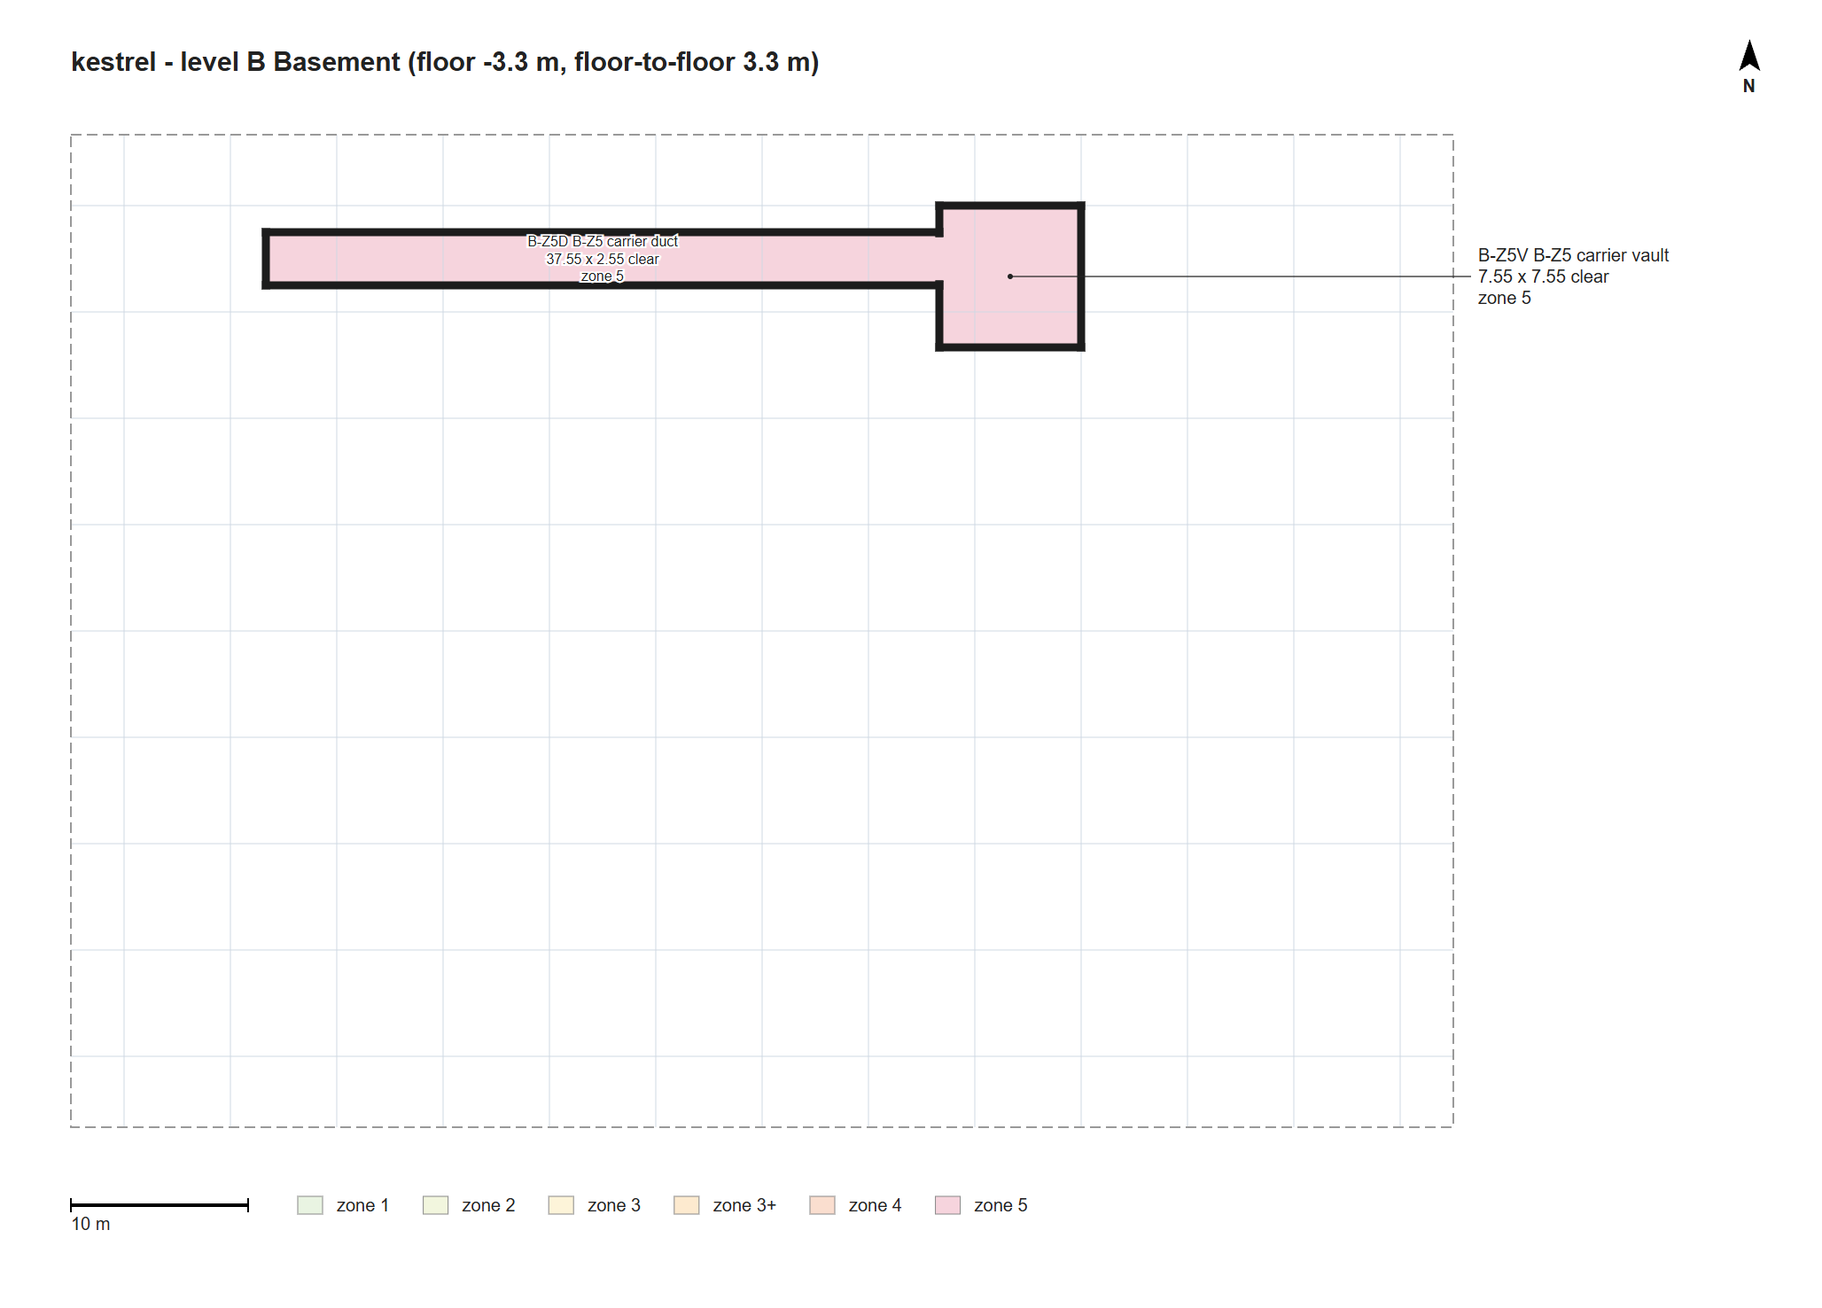
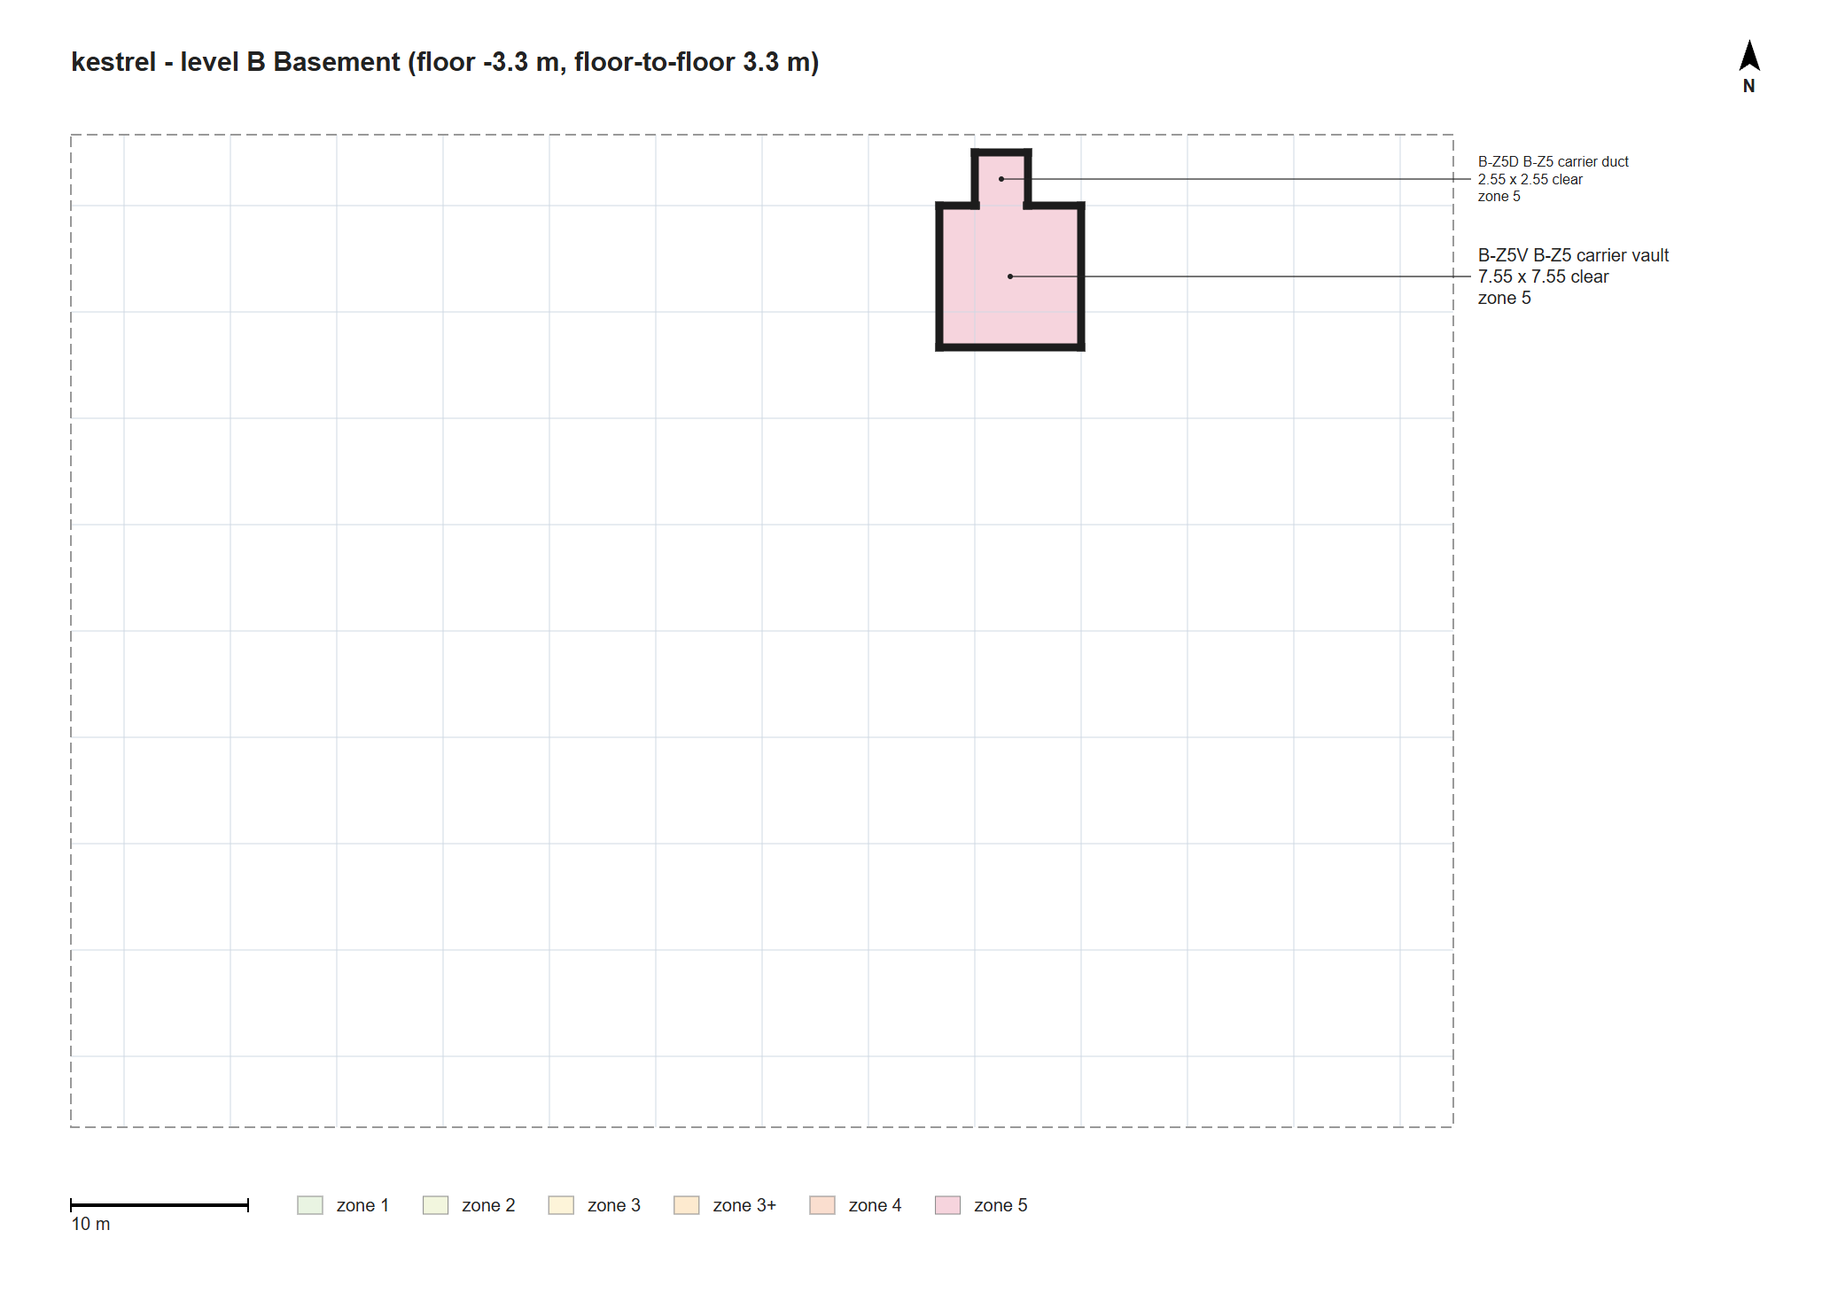
kestrel P03B: apply Michael's answers (X10 beside the vault, G07 3.0 m)

Changed region(s): [[0.1245, 0.0935, 0.5914, 0.2493], [0.8093, 0.1247, 0.8716, 0.1558]]

diff --git a/docs/kestrel/03B-block-plan.md b/docs/kestrel/03B-block-plan.md
@@ -12,7 +12,7 @@ Plans: `docs/kestrel/plans/blocks-{B,G,F,R}.png`. Area check: brief room areas (
 | Footprint `meta.footprint` | [15, 22, 63, 52]: 48 x 30, 8 x 5 bays of 6.0 (limit 48 x 30) |
 | Grid lines, west to east | A 15, B 21, C 27, D 33, E 39, F 45, G 51, H 57, I 63 |
 | Grid lines, south to north | 1 z22, 2 z28, 3 z34, 4 z40, 5 z46, 6 z52 |
-| Yards | front z 6-22 (16 m), west and east 15 m wide, north service strip z 52-56 (4 m, see ASK-3) |
+| Yards | front z 6-22 (16 m), west and east 15 m wide, north service strip z 52-56 (4 m, see ASK-3); X10 in the strip at x 52-53 |
 | `meta.entry` | [14, 6.5]: just inside the fence, west of centre |
 
 Front block z 22-37.5 (first floor above). North block z 37.5-52: single storey to the roof at 6.6 m (hall, gallery, power).
@@ -31,9 +31,9 @@ The front/north line z 37.5 and the row lines z 29.5 and 33.5 are on the 0.5 m g
 | --- | --- | --- | --- | --- | --- |
 | X-Z1-LANE | G | 1 | 0,0,78,6 | X01 | open |
 | X-Z1-YARD | G | 1 | 0,6,78,22 | X02, X03, X05, X06, X07, X09 | open |
-| X-Z1-WEST | G | 1 | 0,22,15,52 | X02, X04, X10 | open |
+| X-Z1-WEST | G | 1 | 0,22,15,52 | X02, X04 | open |
 | X-Z1-EAST | G | 1 | 63,22,78,52 | X02, X08 apron | open |
-| X-Z1-NORTH | G | 1 | 0,52,78,56 | X02 (service strip) | open |
+| X-Z1-NORTH | G | 1 | 0,52,78,56 | X02 (service strip), X10 | open |
 | G-Z2 reception | G | 2 | 24,22,43,29.5 | G01, G03, G04, G05 | 118.5 / 142.5 = 83% |
 | G-Z2G goods lobby | G | 2 | 59,29.5,63,33.5 | G26 | 12 / 16 = 75% |
 | G-Z3P security room | G | 3+ | 18.5,22,24,29.5 | G06 | 30 / 41.25 = 73% |
@@ -53,7 +53,7 @@ The front/north line z 37.5 and the row lines z 29.5 and 33.5 are on the 0.5 m g
 | G-Z4B battery | G | 4 | 57,45,63,52 | G15 | 30 / 42 = 71% |
 | G-Z5 meet-me | G | 5 | 49,45,57,52 | G18, B02 head | 46 / 56 = 82% |
 | B-Z5V carrier vault | B | 5 | 49,44,57,52 | B01, B02 foot | 52 / 64 = 81% |
-| B-Z5D carrier duct | B | 5 | 11,47.5,49,50.5 | X10 to B01 path | duct (ASK-2) |
+| B-Z5D carrier duct | B | 5 | 51,52,54,55 | X10 to B01 path (3 m) | duct |
 | F-Z3O offices and NOC | F | 3 | 18.5,22,43,29.5 | F01, F02 | 144 / 183.75 = 78% |
 | F-Z3S staff and facilities | F | 3 | 46.5,22,59,29.5 | F03, F04 | 72 / 93.75 = 77% |
 | F08 corridor | F | 3 | 15,29.5,63,33.5 | F08 (clear 47.6 x 3.7) | corridor |
@@ -81,9 +81,9 @@ All 48 rows of the brief room schedule are assigned to a zone. Roof ring is writ
 - Fire stair 2 (SW, G25): ground to first, dog-leg, door to G22 and F08, exit-only door to the yard (south face, x 17).
 - Fire stair 1 (SE, G24/R02): ground to first to roof, dog-leg, door to F08, exit-only door to the yard (x 61), bulkhead on the roof.
 - Both fire stairs serve the first floor, at its two ends (F08 runs between them, 48 m: at most ~24 m to the nearer stair).
-- Ground exits: G22 exit-only door on the west face (z 49) by manhole X10; two hall exit-only doors on the north face (x 29, x 45) to the service strip.
+- Ground exits: G22 exit-only door on the north face (x 17.5) into the service strip; two hall exit-only doors on the north face (x 29, x 45) to the same strip.
 - Goods lift: shaft 3 x 4 between the goods zone (arch) and F06 in F-Z3T (arch). Voids: stairwells, lift shaft, riser, X10 hatch.
-- Carriers: X10 (11.5, 48.5) in the west yard, crouch duct east under the north edge (38 m) to the vault under the meet-me room; riser void at (54-56, 49.5-51.5), by the hall's north-east corner.
+- Carriers: X10 at (52-53, 53.5-54.5) in the service strip beside the vault (Michael, Q2); a 3 m duct drops south into the vault under the meet-me room; riser void at (54-56, 49.5-51.5), by the hall's north-east corner. From G22's fire door to X10 is about 35 m along the strip, past both hall exits.
 
 ## 6. Entry and exit
 - Entry: over the lane fence at x 14 (meta.entry [14, 6.5]).
@@ -103,11 +103,11 @@ Polyline (G unless F), stair flight path 8.7 m (two flights of 10 risers plus th
 | Total | | 387.7 (target 380-550) |
 
 ## 8. Look notes
-- B: a 38 x 3 duct runs east from under X10 to the 8 x 8 vault under the meet-me room. Nothing else below ground. Walls are all retaining walls.
-- B: the duct enters the vault by one arch; the vault sits under G-Z5 and part of power. No walkable surface stacks over 3 here.
+- B: an 8 x 8 vault under the meet-me room with a 3 x 3 duct on its north side, under X10 in the service strip. Nothing else below ground.
+- B: the duct enters the vault by one arch; the vault sits under G-Z5 and part of power; walls are all retaining walls. No cell stacks over 3 surfaces.
 - B: the riser void on G lies over the vault; the ladder is P04's.
 - G: front block reads in three bands: rooms on the facade, G20, then G23 along the secure core. The north block reads gallery, hall, power with meet-me and battery.
-- G: G22 runs the full west side from G20 to the NW fire door by X10; the mantrap is the only link from G20 into ring 4.
+- G: G22 runs the full west side from G20 to its fire door into the service strip; the mantrap is the only link from G20 into ring 4.
 - G: labels for small zones go to the callout column; the plan is legible. Fence gates show as dashed gaps.
 - F: one 48 m corridor links fire stair 2, the main stair and fire stair 1; offices and NOC face south.
 - F: the north row is only 3.6 m clear (toilets, lockers, store); the lift shaft sits between them.
@@ -117,21 +117,22 @@ Polyline (G unless F), stair flight path 8.7 m (two flights of 10 risers plus th
 - R: only the bulkhead stair reaches the roof.
 
 ## 9. Checker notes
-`check.mjs`: 26 PASS, 1 FAIL, 8 SKIP, 1 INFO.
+`check.mjs`: 25 PASS, 1 WARN, 1 FAIL, 8 SKIP, 1 INFO.
 - A07 FAIL (opening detail, left for P04): three block arches sit on 4 m corridor-end walls and are within 1.5 m of a wall end: D-G20-MS (main stair), D-G20-GDS (G20 to goods), D-MT-G23 (mantrap inner side). P04's real 1.2 m doors fit.
+- A10 WARN: G22's two doors (fire stair 2 at the south end, fire exit at the north end) line up across G22; they are 22.5 m apart at opposite ends, not facing.
 - A24 SKIP (no register yet, P06). A30 SKIP (no module rooms): fire stairs checked by hand (section 5). SC01-SC06 SKIP (no security file).
 - A19 INFO: lip list only.
 
 ## 10. ASK items and brief deviations for P04
-- ASK-1: G07 loading bay sits under the first floor at 3.0 clear (brief 4.0). The first floor needs the full 48 m width; see Q1.
-- ASK-2: the carrier duct is 38 m. The meet-me room must touch the hall on the side away from G22 (G22 runs along the gallery), and X10 must sit by G22's fire door. See Q2.
+- ASK-1: closed (Q1). G07 sits under the first floor at 3.0 clear (brief 4.0); P04 records the deviation.
+- ASK-2: closed (Q2). X10 moved beside the vault; brief 02 sections 4, 7, 9 and the G22 and X10 rows updated.
 - ASK-3: a 4 m service strip behind the building (not in the brief) gives the hall fire exits a yard; the viaduct wall is on z 56.
 - ASK-4: heights of the depot facade and viaduct are unknown; 2.4 m (the brief's boundary walls) is used. East gate width 4.0 copied from X09.
 - ASK-5: no staff WC on the ground floor in the brief; A30 will ask for one once module rooms are placed.
 - Deviations: G23 29 m (brief 14); F08 48 m (brief 24); G22 3.13 clear (brief 3.5) and 22 m long; cooling gallery fits 14.1 m long (brief 16, same area); G09, F05 and F06 must reshape to 3.6-3.7 m deep; G08 and G09 open from the goods zone, not G20.
-- The critical path sits only 7.7 m over the 380 m floor; see Q3.
+- The critical path sits 7.7 m over the 380 m floor; accepted (Q3).
 
-## 11. Questions for Michael
-1. Loading bay height: (a) accept 3.0 m under the first floor; (b) keep 4.0 m: the first floor stops at x 50 and its rooms no longer fit at 85%.
-2. Carrier duct: (a) accept the 38 m crouch duct; (b) run it under the north service strip (same length, under the yard); (c) move X10 behind the meet-me room (short duct, X10 no longer by G22's fire door).
-3. Critical path at 388 m: (a) accept; (b) P04 lengthens it by giving the hall only its west fire exit (about +20 m).
+## 11. Questions for Michael (answered 2026-10-10)
+1. Loading bay height: (a) accept 3.0 m under the first floor; (b) keep 4.0 m and shrink the first floor. Answer: (a).
+2. Carrier duct: (a) 38 m duct; (b) under the north strip; (c) move X10. Answer: X10 moves to the north service strip beside the vault, short duct, reached from G22's fire door along the strip; the brief note is updated.
+3. Critical path at 388 m: (a) accept; (b) lengthen in P04. Answer: (a).

diff --git a/docs/kestrel/02-building-brief.md b/docs/kestrel/02-building-brief.md
@@ -56,8 +56,9 @@ tonight. All metres. Clear sizes only; positions are set later.
 - Vehicle gate on the lane at the west, with an ANPR camera reading plates in and out. A second gate at the
   east serves the loading apron. Pedestrian entry in the story is over the lane fence on the south boundary; the
   way out is the vehicle gate or across the loading apron (a different path from the fence), separate from the fence.
-- The carrier duct manhole sits in the yard near the north-west, close to an exit-only fire door from the
-  facilities/secure area (fix 6). Its lid lifts to the carrier entry path down to the vault.
+- The carrier duct manhole sits in the north service strip behind the building, beside the carrier vault, so the duct
+  is short as at a real entrance room (Michael, P03B Q2). It is reached from the plant and services corridor's (G22)
+  exit-only fire door along the strip. Its lid lifts to the carrier entry path down to the vault.
 - Boundaries: a 2.4 m palisade lane fence on the south (the climb-in point); 2.4 m blockwork boundary walls on
   the east, west and north; the viaduct abutment forms part of the north edge.
 - Neighbours are solid: the viaduct (north) and the depot facade (south across the lane) are never enterable (RULES 2).
@@ -93,7 +94,7 @@ below the 6 m play-space minimum by function and are tagged; all occupied rooms 
 | G20 | Ground | 3 | Controlled corridor | Staff spine: reception to goods, stairs and the mantrap | quiet | 3.5 x 26.0 | 3.0 | linoleum | G01, G06, G07, G08, G09, G11, G12, G21, G25 | on | rounds officer passes |
 | G21 | Ground | 3 | Main stair core | Main stair, ground to first | passage | 6.0 x 3.5 | 3.0 | linoleum | G20, F08 | on | none |
 | G23 | Ground | 4 | Secure corridor | Serves UPS, battery, switch, cooling, hall, MMR | quiet | 3.5 x 14.0 | 3.0 | antistatic vinyl | G12, G13, G14, G16, G17 | dim | escort officer stands here |
-| G22 | Ground | 3 | Plant and services corridor | Facilities corridor carrying the chilled-water pipes and pipe riser into the cooling gallery; CRAC servicing (Q1) | quiet, loud plant | 3.5 x 16.0 | 3.0 | sealed concrete | G20, X02 (exit-only fire door by X10) | dim | escort officer on plant checks |
+| G22 | Ground | 3 | Plant and services corridor | Facilities corridor carrying the chilled-water pipes and pipe riser into the cooling gallery; CRAC servicing (Q1) | quiet, loud plant | 3.5 x 16.0 | 3.0 | sealed concrete | G20, X02 (exit-only fire door to the north service strip, the way to X10) | dim | escort officer on plant checks |
 | G24 | Ground | 3 | Fire stair 1 (SE, front block) | Enclosed escape stair, roof to ground, discharges outside | empty | 6.0 x 2.8 (stair) | 3.0 | concrete | F08, R02, X02 (exit-only) | emergency | none |
 | G25 | Ground | 3 | Fire stair 2 (SW) | Enclosed escape stair, ground to first, discharges outside | empty | 6.0 x 2.8 (stair) | 3.0 | concrete | G20, F08, X02 (exit-only) | emergency | none |
 | F01 | First | 3 | Ostler offices | Daytime admin and sales desks | dark | 12.0 x 8.0 | 3.0 | carpet tile | F08 | off | none |
@@ -116,7 +117,7 @@ below the 6 m play-space minimum by function and are tagged; all occupied rooms 
 | X07 | Site | 1 | Smoking shelter | Covered smoking point (clear of the fuel tank) | unused | 3.0 x 2.0 | 2.4 | concrete | X02 | off | none |
 | X08 | Site | 1 | Loading apron | Hardstanding at the dock shutter; van loading | van being loaded | ~12 x 8 | - | concrete | X02, G07, X09 | on | van driver |
 | X09 | Site | 1 | Vehicle gate (ANPR) | Plated vehicle entry/exit on the lane | closed | 4.0 wide gate | - | tarmac | X01, X02, X08 | lamp | gatehouse officer controls it |
-| X10 | Site | 1 | Carrier duct manhole | Lidded access to the carrier entry path to the vault | sealed | 1.0 x 1.0 opening | - | concrete | X02, B01 (carrier path) | PIR | none (near the facilities fire door) |
+| X10 | Site | 1 | Carrier duct manhole | Lidded access to the carrier entry path to the vault | sealed | 1.0 x 1.0 opening | - | concrete | X02, B01 (carrier path) | PIR | none (in the north service strip beside the vault; reached from G22's fire door) |
 
 Area check (clear room + circulation areas vs gross footprint):
 - Ground (excluding G19, an enclosure inside G13): 63+5.5+30+20+30+80+12+42+20+6.25+3+7.5+280+48+30+35+64+42+91+21+49+56+17+17 = 1069.25 m2. Gross 1440 m2; the remaining ~371 m2 is wall thickness, columns and reserved white space for future cages (TIA-942 flexible white space, general knowledge). Fits.
@@ -159,7 +160,7 @@ Follows level-design 16.2 (people move only by stair cores, enclosed fire stairs
   fire stairs sit at opposite ends of the first floor, so both serve it. The secure core (no first floor above it)
   keeps its own exit-only fire exits.
 - The data hall has its own exit-only fire doors straight to the yard (industry rule for a large room). The plant and
-  services corridor (G22) has an exit-only fire door that discharges by the carrier duct manhole X10 (fix 6).
+  services corridor (G22) has an exit-only fire door to the north service strip, along which the manhole X10 lies (P03B Q2).
 - Goods lift (G10): working, ground loading bay to first-floor storage, for consumables and lighter kit; heavy racks
   stay on the ground (heavy floor loads kept low). It does not serve the basement.
 - Carrier riser (B02): a fixed ladder in an enclosed shaft, vault (B01) up to the meet-me room (G18). The only link to
@@ -200,7 +201,7 @@ Longest escape travel per floor (general knowledge, BS 9999-type travel limits ~
 | Rainscreen cladding rails | All upper-level elevations | Fixing rails behind the profiled metal rainscreen | Yes, continuous |
 | Plant louvres | Cooling gallery wall and roof plant | Air in/out for CRAC and AHU plant | Yes, matched louvres |
 | Office windows | Office elevations (south/west, first floor) only | Daylight to staff rooms; halls stay windowless | Yes, same unit (hall/MMR have none) |
-| Fire exits (exit-only) | Fire stair 1 (SE), fire stair 2 (SW), data-hall exits, facilities exit by X10 | Escape; push bar inside, no handle outside, alarm to the desk | Yes, all the same door |
+| Fire exits (exit-only) | Fire stair 1 (SE), fire stair 2 (SW), data-hall exits, G22 exit to the service strip | Escape; push bar inside, no handle outside, alarm to the desk | Yes, all the same door |
 | Roof chillers | Roof deck (north) | Reject hall heat; chilled-water pipes down to G17 | With AHU, matched frames |
 | Roof AHU and aerials | Roof deck (south) | Office air handling; small aerials | One each |
 | Dock shutter and canopy | Loading apron face (east) | Goods dock; weather canopy over the apron | One |
@@ -288,4 +289,5 @@ Downstream: P04 and P06 must recheck fire stair 1 (G24) at the south-east corner
 | --- | --- | --- | --- |
 | 2026-10-10 | 1 | G06 door from G20, window onto G01 kept; G01, G06, G20 Doors to; section 6 G06 line | done |
 | 2026-10-10 | 2 | Fire stair 1 moved NE to SE of the front block; G24, R02, F08 Doors to; section 7 (stairs, first-floor escape ~24 m); section 9 fire exits row | done |
+| 2026-10-10 | P03B Q2 | Michael's answer in P03B: X10 moved beside the vault in the north service strip, reached from G22's fire door; section 4, G22 and X10 rows, section 7, section 9 fire exits row | done |
 

diff --git a/docs/kestrel/progress.md b/docs/kestrel/progress.md
@@ -34,7 +34,7 @@
 ## Log (newest first)
 - 2026-10-10 P03B: docs/kestrel/kestrel.blocks.json (36 zones and corridors, B/G/F/R), 03B-block-plan.md (137 lines), plans/blocks-{B,G,F,R}.png. Building x 15-63, z 22-52; first floor front block z 22-37.5; north block hall, gallery, power, meet-me. Critical path 387.7 m.
   Check: 26 PASS, 1 FAIL (A07: three block arches on 4 m corridor-end walls, left for P04), A30 SKIP (no modules; fire stairs checked by hand).
-  Deviations raised: loading bay 3.0 m under the first floor (brief 4.0), 38 m carrier duct, G23 29 m and F08 48 m long, 4 m north service strip. 5 ASK items, 3 questions.
+  Deviations raised: loading bay 3.0 m under the first floor (brief 4.0), G23 29 m and F08 48 m long, 4 m north service strip. Michael answered the 3 questions: X10 moved beside the vault (duct 3 m, G22 fire door now opens to the strip); check now 25 PASS, 1 WARN (A10), 1 FAIL (A07).
 - 2026-10-10 P03 Part C revision (Michael's 3 answers): A07 corner rule only for corridors and play-space rooms (rooms[].service added, set by service modules); A29 steps 1-2-3-4-5 with 3+ beside 3 only; mantrap back to ring 4; A11 teaches stairs[].layout "dogleg" (two flights side by side, 1.3 m landing for fire stairs, 2.0 otherwise); stair cores back to 6.0 m as dog-legs, main core uses two 1.3 m flights. Fire stair stays 3.0 wide, cage 3.5 deep (P04 records both as brief deviations). 78 tests pass (check 51, expand 27).
 - 2026-10-10 P03 Part C: module kit. scripts/kestrel/modules.json (37 modules: the 35 listed plus corridor and lift-shaft), expand.mjs (layout to rooms, walls, openings, objects, stairs, ladders, voids; shared walls merge; rotations; manual and untagged items kept; items it wrote carry "gen"), expand.test.mjs (23 tests incl. every module x size x rotation alone in a filler frame), docs/kestrel/sample.layout.json. check.mjs: A28 ring, A29 ring steps, A30 fire stairs / roof / staff WC and janitor (runs only when a room has a module); check.test.mjs now 49. 72 tests pass.
   Fixed Part B bugs found by the kit: A06 counted a collinear wall beside an edge as a gap; A26 flagged each rack against the next-but-one rack and the wall behind its neighbour (now a gap with a tall thing across it is ignored). plans.mjs leaves off an object id that does not fit.
@@ -59,6 +59,7 @@
 - 2026-10-10 P00: branch feature/kestrel made from ct-movement (e60c835). RULES.md saved word for word. 00-facts.md: 33 rows read from code and docs; 4 notes under NOT FOUND (nav ladder standoff, drainpipe climb speed, lighting doc numbers, F28 key is "type"). Coordinates: north +Z, east +X, up +Y. Three scripts/e2e-dead-line*.mjs files are not covered by RULES section 4.
 
 ## Decisions by Michael
+- 2026-10-10 P03B questions: loading bay G07 sits under the first floor at 3.0 m clear (brief 4.0; P04 records it); carrier manhole X10 moves to the north service strip beside the vault (short duct), reached from G22's exit-only fire door along the strip, brief 02 updated (revision row P03B Q2); critical path 388 m accepted.
 - 2026-10-10 P03 Part C questions: A07 corner rule applies to corridors and play-space rooms only (service rooms just need the door inside the wall); mantrap ring 4 and A29 steps 1-2-3-4-5 with 3+ beside 3 only; A11 takes dog-leg stairs and the stair cores go back to 6.0 m; fire stair stays 3.0 wide and the customer cage 3.5 deep (brief deviations for P04).
 - 2026-10-10 P03 Part B questions: door end-clearance is measured from the opening's near edge; levels get an optional footprint rect for the first-floor-over-the-front-block-only shape (ground and roof use the full footprint, the first floor its own smaller rect).
 - 2026-10-10 P01 questions: bible 5.8 triggers are assumed (zone trigger for objective 1; objective 6 starts the generator test); the carrier route passes a corner of S5; all 16 guards armed with sidearms; alarms never fail the mission (only killing the civilian); the four sleeping guards are chosen by P07.
